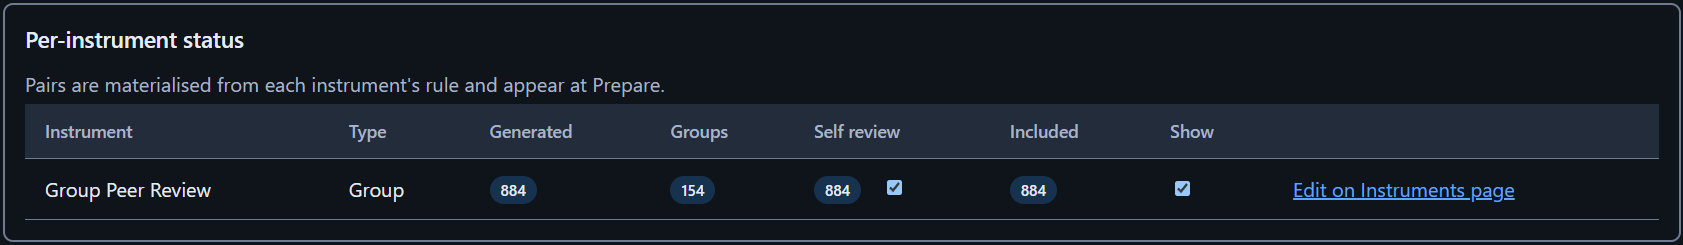
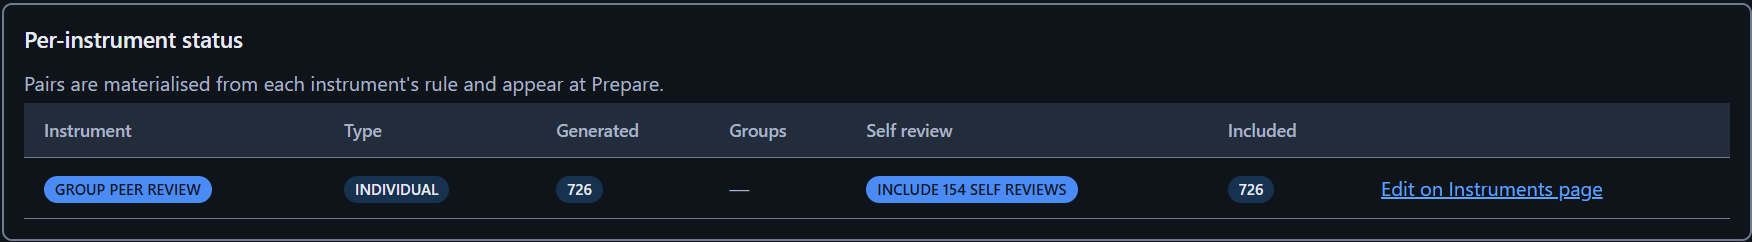
Guide: the assignment-rule and Assignments screencaps retaken with the chips (Guide_v5d)
Both pairs show the UX refinements Item 7 and 8 chips; their alt text
says what they show. Items 7 and 8's open question collapses.

Claude-Session: https://claude.ai/code/session_0116Ns1HgCKeKutgZT3Tje64

diff --git a/app/web/templates/guide.html b/app/web/templates/guide.html
@@ -286,7 +286,9 @@
                 band showing Who does the review set to ALL, Who is being
                 reviewed set to FILTER USING TAGS with Group IS THE SAME AS
                 Group AND Team IS THE SAME AS Team, and Unit of review set to
-                INDIVIDUAL.">
+                INDIVIDUAL, with an INCLUDE SELF REVIEWS chip below it and the
+                line: A self review is where the individual reviewed is the
+                reviewer.">
       <img src="/static/guide/instrument-card-assignment-rule-dark.png"
            data-theme-variant="dark" loading="lazy"
            alt="The top of an unlocked instrument card named Group Peer
@@ -295,7 +297,9 @@
                 band showing Who does the review set to ALL, Who is being
                 reviewed set to FILTER USING TAGS with Group IS THE SAME AS
                 Group AND Team IS THE SAME AS Team, and Unit of review set to
-                INDIVIDUAL.">
+                INDIVIDUAL, with an INCLUDE SELF REVIEWS chip below it and the
+                line: A self review is where the individual reviewed is the
+                reviewer.">
     </figure>
     <p>
       In the screencap above the instrument has a rule where all reviewers
@@ -521,15 +525,15 @@
       <img src="/static/guide/assignments-page.png"
            data-theme-variant="light" loading="lazy"
            alt="The Assignments page's Per-instrument status card: one row for the
-                Group Peer Review instrument showing 884 generated pairs across 154
-                groups, with the self-review and show checkboxes both ticked
-                (captured before they became chips).">
+                Group Peer Review instrument as a chip, an INDIVIDUAL type pill,
+                726 generated pairs, no groups, an INCLUDE 154 SELF REVIEWS chip,
+                726 included, and an Edit on Instruments page link.">
       <img src="/static/guide/assignments-page-dark.png"
            data-theme-variant="dark" loading="lazy"
            alt="The Assignments page's Per-instrument status card: one row for the
-                Group Peer Review instrument showing 884 generated pairs across 154
-                groups, with the self-review and show checkboxes both ticked
-                (captured before they became chips).">
+                Group Peer Review instrument as a chip, an INDIVIDUAL type pill,
+                726 generated pairs, no groups, an INCLUDE 154 SELF REVIEWS chip,
+                726 included, and an Edit on Instruments page link.">
     </figure>
     <p>
       To check what a reviewer will see on their side, go to the

diff --git a/guide/ux_refinements.md b/guide/ux_refinements.md
@@ -786,8 +786,7 @@ Taken 2026-10-10 at `c8343bf3`.
 
 ### Open questions
 
-- The Guide's `assignments-page` screencaps: a retake, when the author
-  is at the capturing machine.
+- ~~The Guide's screencap retake~~ Retaken by the author (`Guide_v5d`, 2026-10-10).
 
 ### Out of scope
 
@@ -881,8 +880,7 @@ Taken 2026-10-10 at `c8343bf3`.
 
 ### Open questions
 
-- The Guide's `instrument-card-assignment-rule` screencaps: a retake,
-  with Item 7's `assignments-page` pair.
+- ~~The Guide's screencap retake~~ Retaken by the author (`Guide_v5d`, 2026-10-10).
 
 ### Out of scope
 
